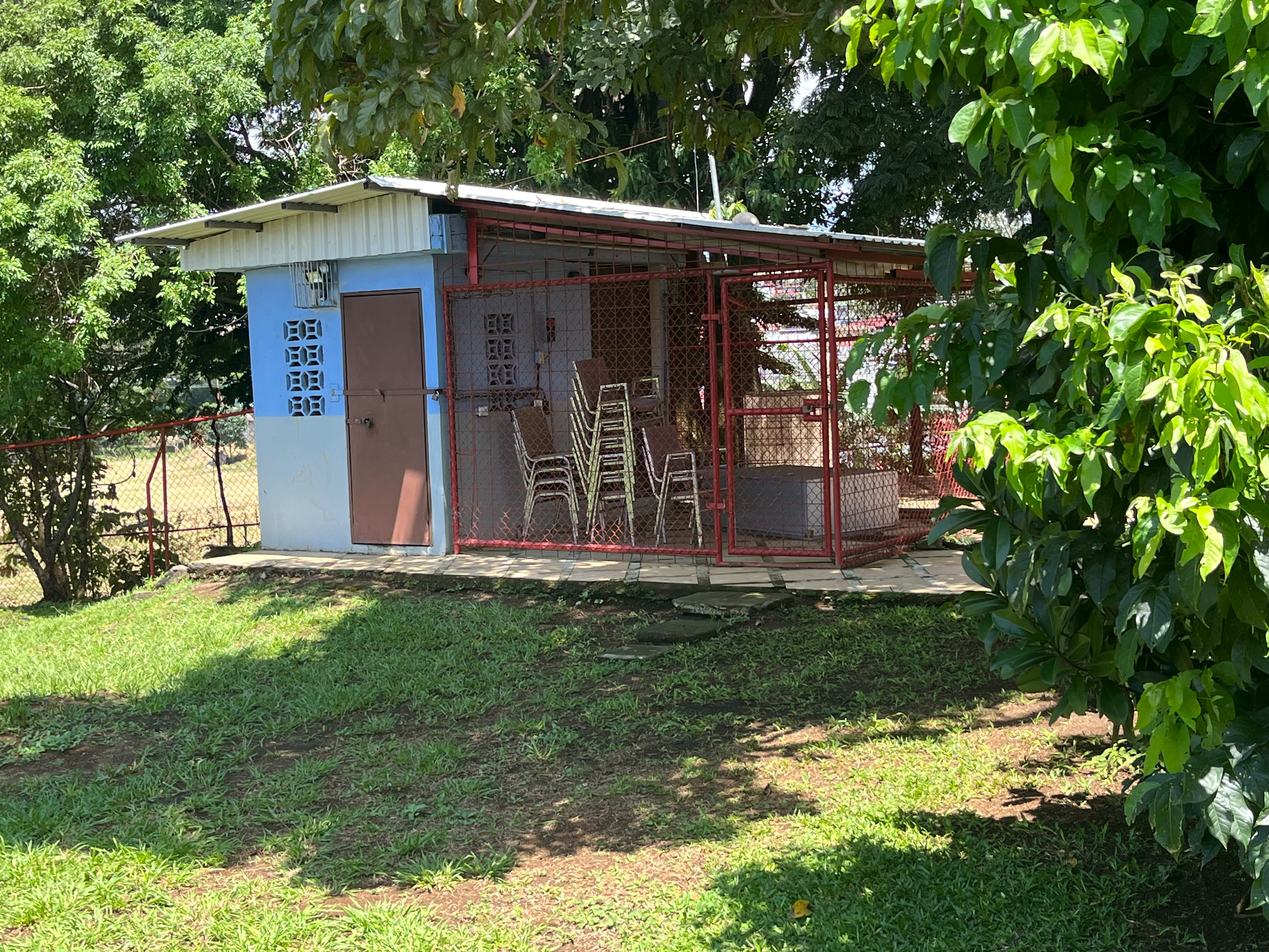
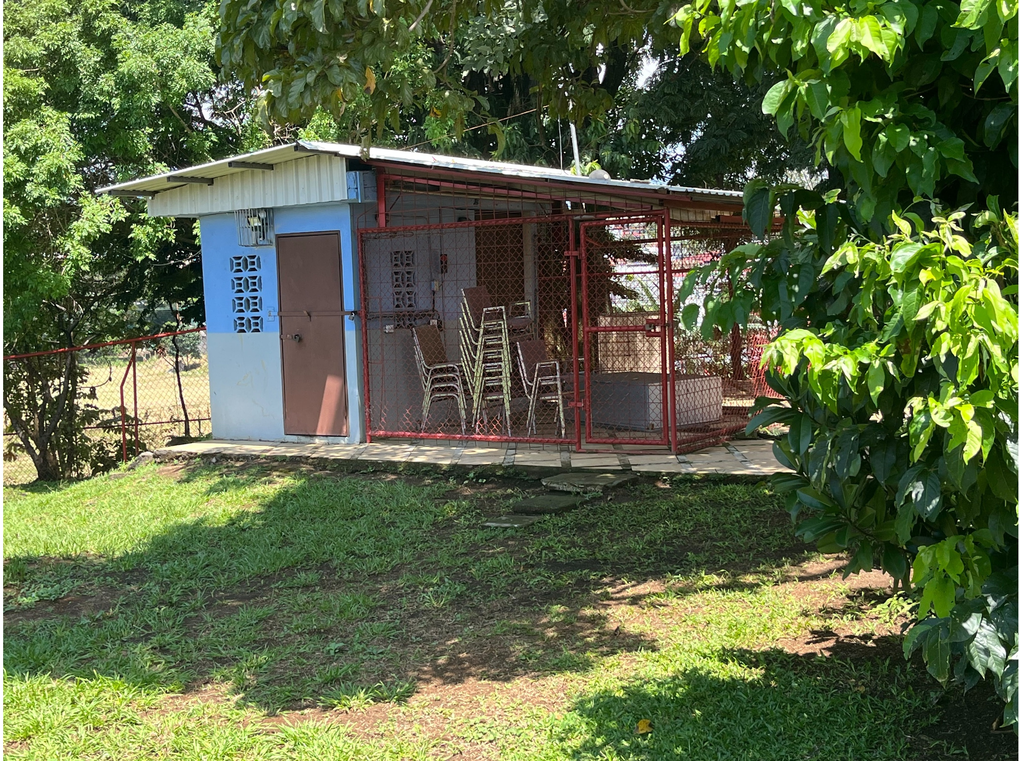
cambios para que se vea mejor el carrusel 2

diff --git a/index.html b/index.html
@@ -66,7 +66,7 @@
       </div>
     </div>
 
-    <div class="carousel-item item">
+    <div class="carousel-item item-2">
       <img src="Img/psos.jpeg" class="d-block w-100" alt="Slide 2">
       <div class="carousel-caption">
         <h2 class="fw-bold">Sistema de desinfeccion</h2>

diff --git a/style.css b/style.css
@@ -3,6 +3,13 @@
  
   object-fit: cover;
 }
+
+#carruselASADA .item-2 img {
+  height: 500px;
+ 
+  object-fit: fill;
+  
+}
 #carruselASADA .item-horario img {
   height: 500px;
  
